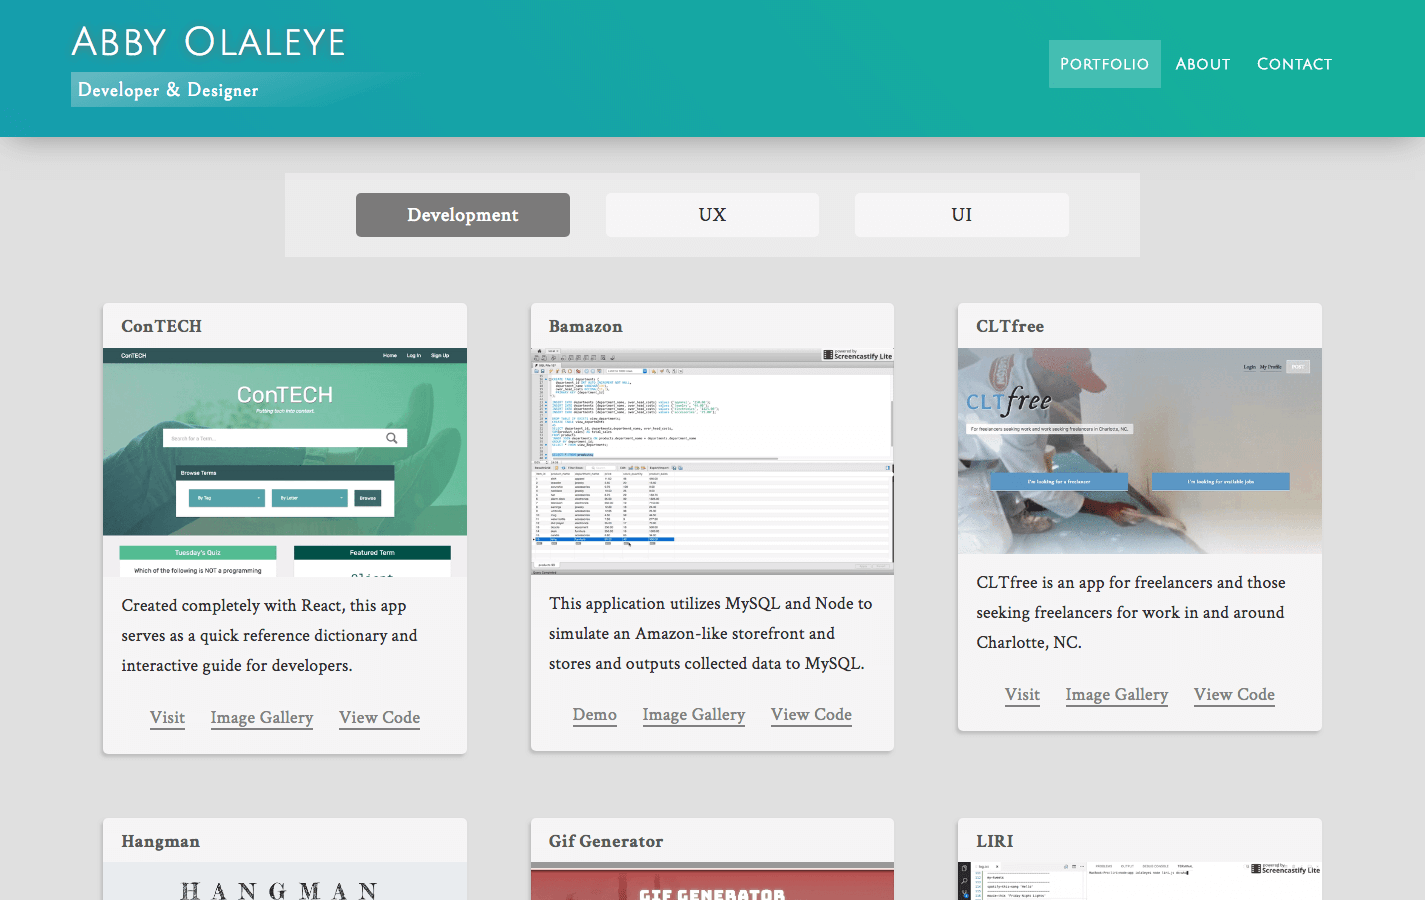
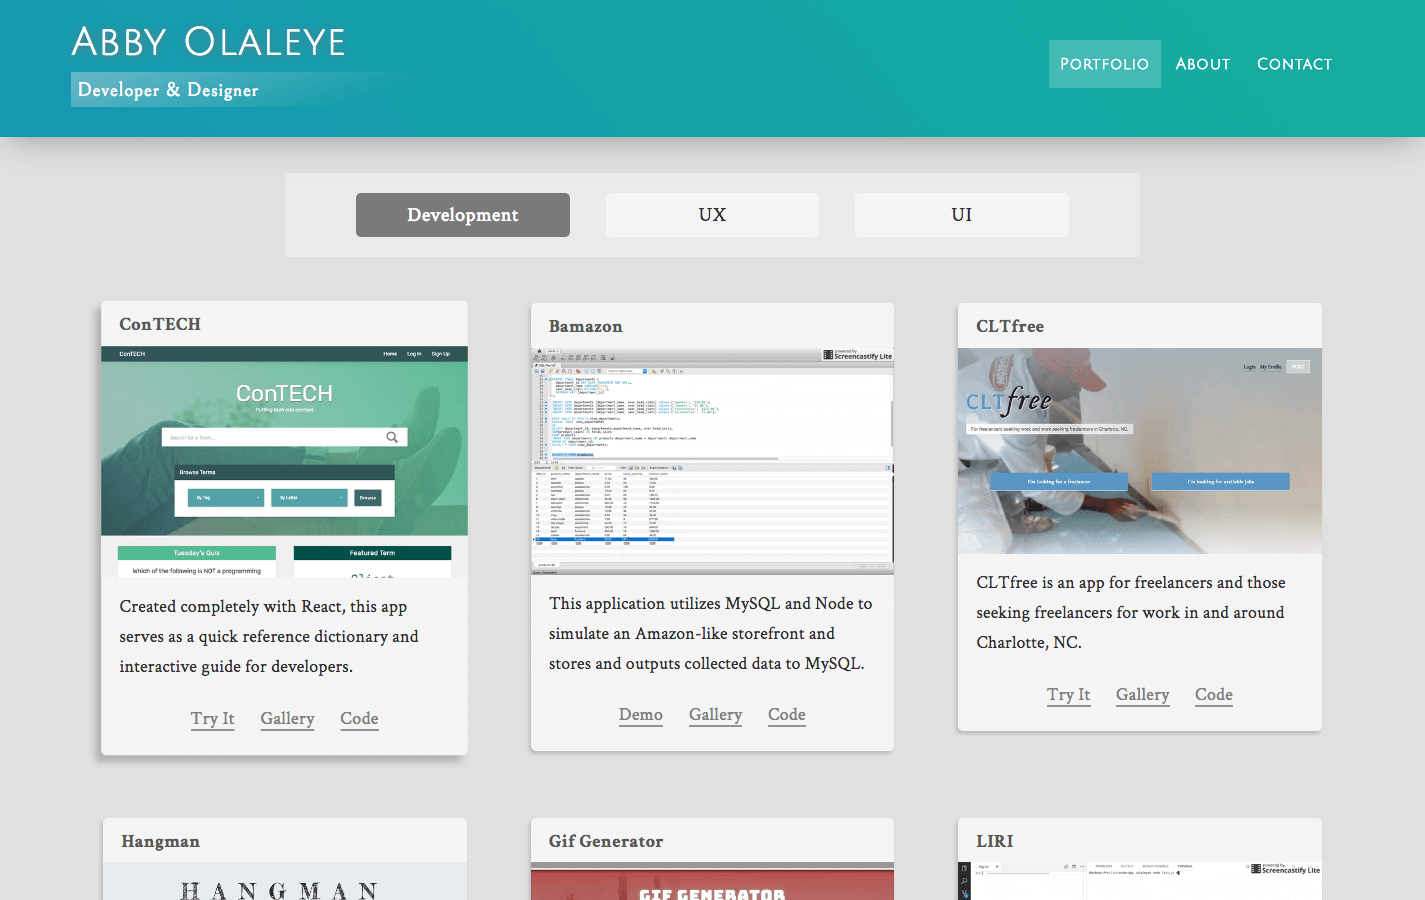
updated contents in README

diff --git a/README.md b/README.md
@@ -4,9 +4,9 @@ Created with custom css, this website showcases my portfolio of projects in web 
 
 #### Overview:
 * The __Portfolio__ page lists and details the projects I've worked on, and each listing provides:
-  * A "Visit" link which leads to the live project
-  * An "Image Gallery" link which hosts a collection of images and descriptions about the project
-  * A "View Code" link which leads to the project's GitHub repository
+  * A "Try It" link which leads to the live project
+  * An "Gallery" link which hosts a collection of images and descriptions about the project
+  * A "Code" link which leads to the project's GitHub repository
   * There is also a filter bar at the top of the page to filter projects by category
 * The __About__ page that provides information on my background, skills, and community involvement
 * The __Contact__ page provides general information and contact details
